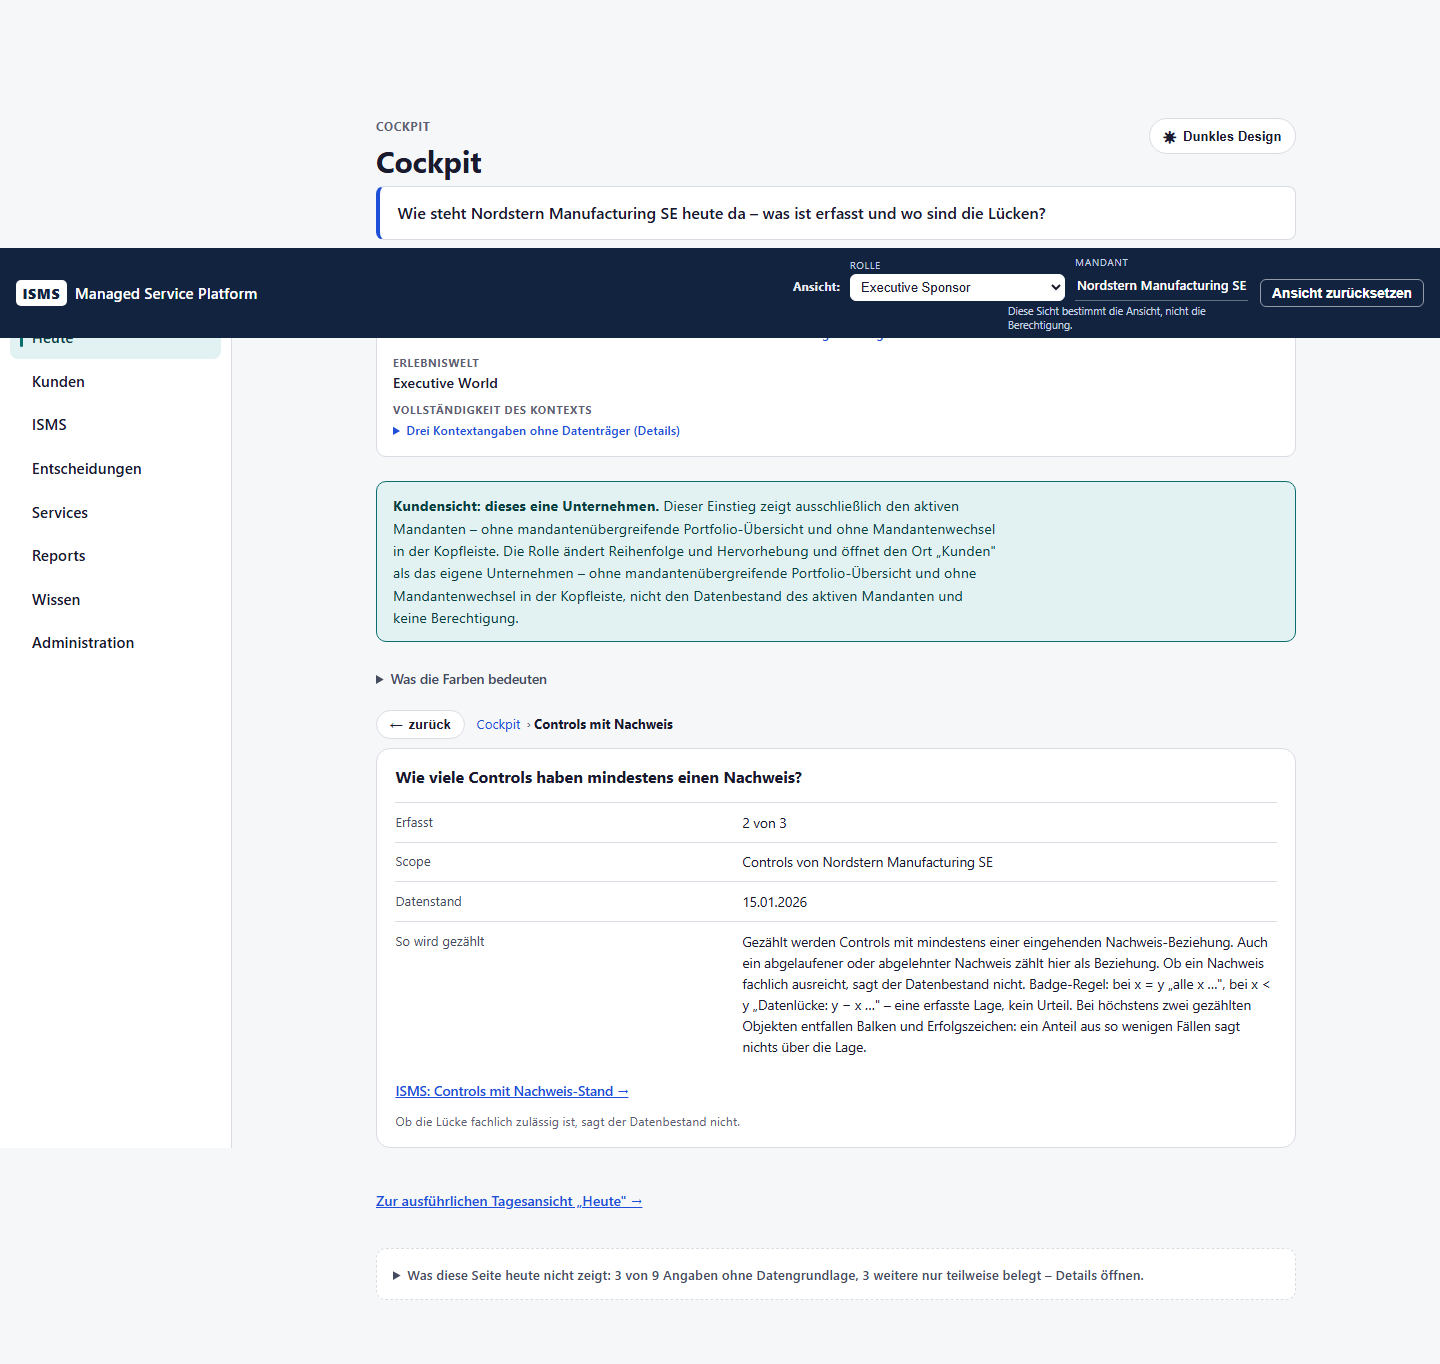
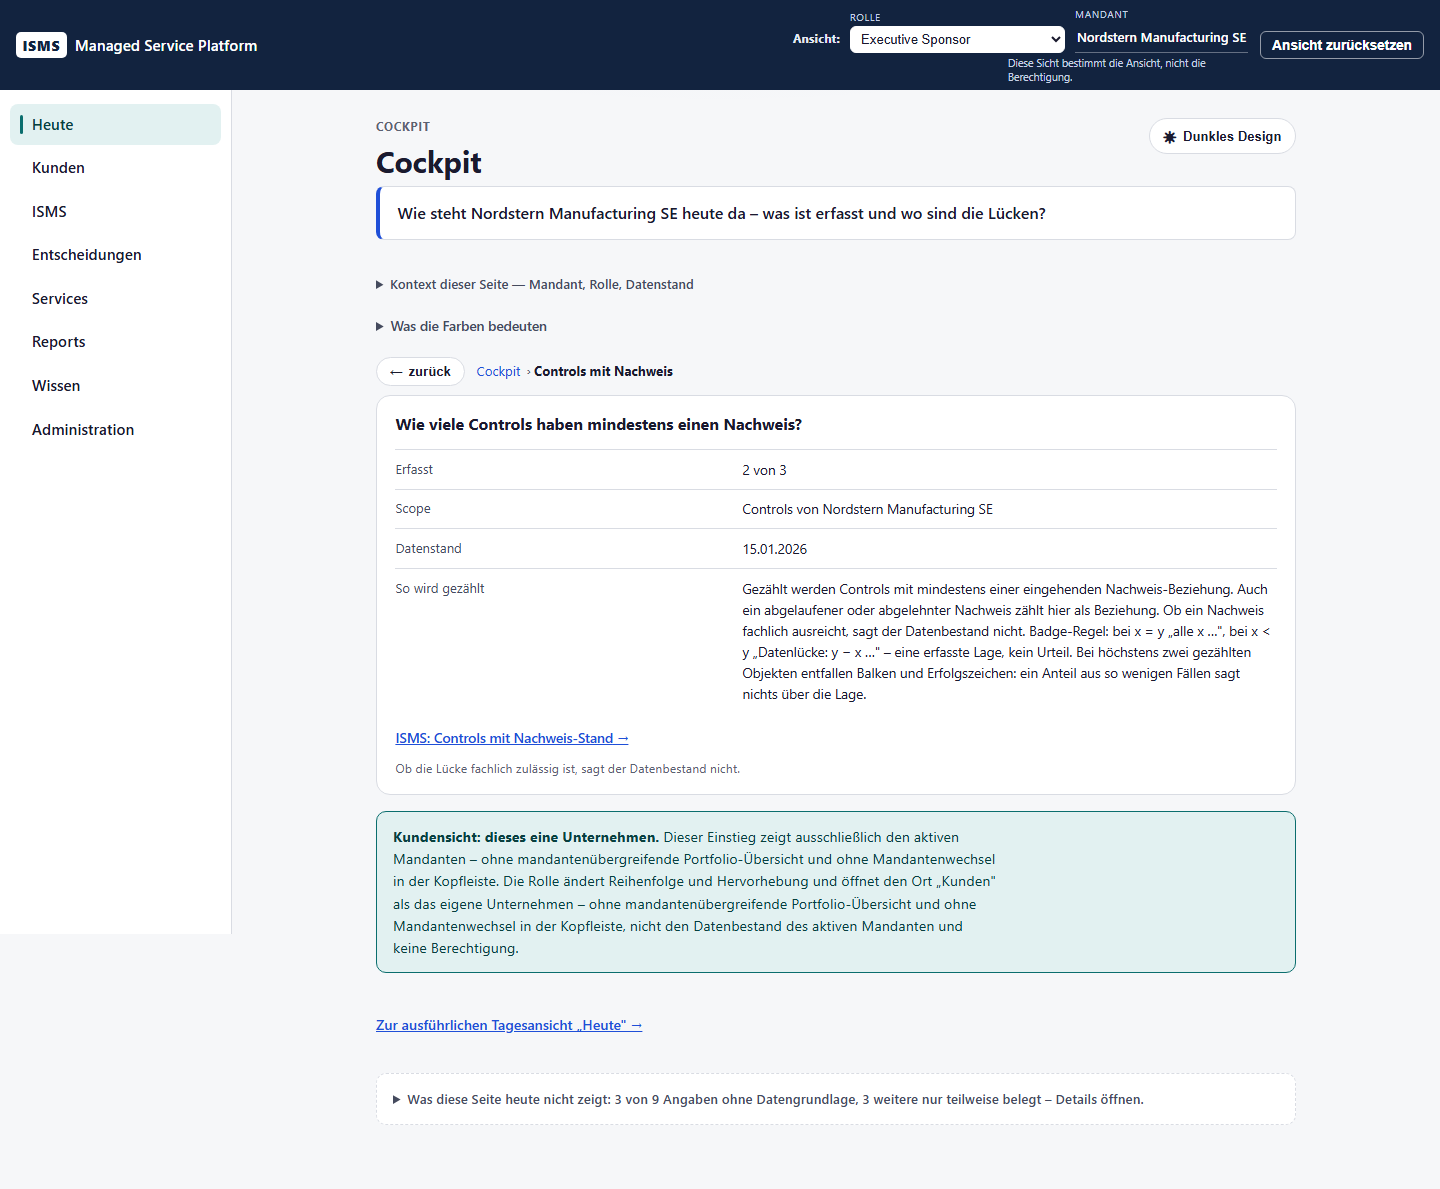
feat(web): DR-0017 Stage 0 - Cockpit-Vorlage perfektioniert (Dashboard-first)
Owner-Feedback umgesetzt: Ehrlichkeits-Bausteine raeumen den Dashboard-Blick frei - Kontextleiste
eingeklappt (<details>), Sphaeren-Hinweis unter das Grid, Legende eingeklappt -> das Bento-Dashboard
steht sofort oben (wie im freigegebenen Entwurf). Radar-Umbruch gefixt (kurze Achsen-Labels). Guards
bleiben (Bausteine im DOM). 835 Tests + axe 0. Neue Nordrichtung DR-0017 im Vision-Doc verankert.

diff --git a/apps/web/lib/cockpit/radar.ts b/apps/web/lib/cockpit/radar.ts
@@ -35,10 +35,20 @@ export const RADAR_LABEL: Readonly<Record<CoverageTile['id'], string>> = {
   kanten_vertrauensgrad: 'Beziehungen mit Vertrauensangabe',
 };
 
+/** Kurzlabel für die enge Radar-Werteliste (verhindert den Umbruch in der schmalen Kachel). */
+export const RADAR_KURZ: Readonly<Record<CoverageTile['id'], string>> = {
+  controls_nachweis: 'Controls',
+  risiken_minderung: 'Risiken',
+  objekte_owner: 'Objekte m. Owner',
+  kanten_vertrauensgrad: 'Vertrauensangabe',
+};
+
 /** Eine Radar-Achse = eine erfasste Abdeckung, mit ehrlichem Anteil und Ampel-Status. */
 export interface CockpitRadarAxis {
   readonly id: CoverageTile['id'];
   readonly label: string;
+  /** Kurzlabel für die enge Radar-Werteliste. */
+  readonly kurz: string;
   readonly covered: number;
   readonly total: number;
   /** Anteil 0…1 (Geometrie der Achse); 0 bei fehlender Grundgesamtheit – nie ein Score im Text. */
@@ -75,6 +85,7 @@ export function buildCockpitRadar(
     return {
       id: tile.id,
       label: RADAR_LABEL[tile.id],
+      kurz: RADAR_KURZ[tile.id],
       covered: tile.covered,
       total: tile.total,
       anteil,

diff --git a/apps/web/components/cockpit/CockpitModulContent.tsx b/apps/web/components/cockpit/CockpitModulContent.tsx
@@ -89,8 +89,10 @@ export function CockpitModulContent({
 
       {model && baum ? (
         <>
-          <CockpitContextBar model={model} role={role} tenant={tenant} world={world} />
-          <SphaerenNotiz role={role} />
+          <details className="ck-fold">
+            <summary>Kontext dieser Seite — Mandant, Rolle, Datenstand</summary>
+            <CockpitContextBar model={model} role={role} tenant={tenant} world={world} />
+          </details>
 
           {baum.isEmpty && baum.emptyTile ? (
             <EmptyTenantKachel tile={baum.emptyTile} />
@@ -104,6 +106,7 @@ export function CockpitModulContent({
             </>
           )}
 
+          <SphaerenNotiz role={role} />
           <p className="ck-heute-link">
             <Link className="tw-cta" href="/heute">
               Zur ausführlichen Tagesansicht „Heute" →

diff --git a/apps/web/app/globals.css b/apps/web/app/globals.css
@@ -2291,6 +2291,21 @@ summary {
  * aus den --ck-*-Tokens (Dunkelmodus zieht automatisch mit). Flach; Eintauch-
  * Animation respektiert prefers-reduced-motion.
  * ========================================================================= */
+.ck-fold {
+  margin: 0.25rem 0 0.6rem;
+}
+.ck-fold > summary,
+.ck-legende-fold > summary {
+  cursor: pointer;
+  font-size: 0.82rem;
+  font-weight: 600;
+  color: var(--ck-ink-soft);
+  padding: 0.35rem 0;
+  list-style-position: inside;
+}
+.ck-fold[open] > summary {
+  margin-bottom: 0.5rem;
+}
 .ck-legende-fold {
   margin: 0.25rem 0 1rem;
 }

diff --git a/apps/web/components/cockpit/CockpitRadar.tsx b/apps/web/components/cockpit/CockpitRadar.tsx
@@ -77,7 +77,7 @@ export function CockpitRadar({ radar }: { radar: CockpitRadarModel }) {
         {axes.map((axis) => (
           <li key={axis.id} className={`ck-status--${axis.status}`}>
             <span className="ck-radar-punktmarke" aria-hidden="true" />
-            <span className="ck-radar-wert-label">{axis.label}</span>
+            <span className="ck-radar-wert-label">{axis.kurz}</span>
             <span className="ck-radar-wert-zahl">
               {axis.isEmpty ? 'keine Grundgesamtheit' : `${axis.covered} von ${axis.total}`}
             </span>

diff --git a/docs/project/OWNER_VISION_UND_BACKLOG.md b/docs/project/OWNER_VISION_UND_BACKLOG.md
@@ -11,6 +11,17 @@ Stand: **2026-07-24**. Aktueller Baustand & Testlage: `docs/project/CURRENT_STAT
 
 ---
 
+## 0. NEUE NORDRICHTUNG (2026-07-24, DR-0017) — HIER ZUERST
+
+**Das ganze Produkt wird ein durchgehendes Eintauch-Dashboard** ([DR-0017](../decisions/DR-0017_drilldown_dashboard_ia_ganzes_produkt.md)):
+Einstieg = **Berater-Portfolio-Dashboard** (alle Kunden) → tiefer in einen **Kunden** → dessen Dashboard zeigt
+die acht Bereiche (Heute/Kunden/ISMS/Entscheidungen/Services/Reports/Wissen/Administration) als **grafische
+Kacheln** → tiefer und tiefer bis in den **digitalen Zwilling**. **Kein Sidebar-Reiter mehr** — Navigation nur
+über Eintauchen (Brotkrume). Alles im **Cockpit-Dashboard-Stil** (das modulare Cockpit ist die Vorlage).
+**Der ehrliche Kern bleibt** (Daten, Ableitungen, Zwilling, Konzepttreue, Tests) — nur Präsentation + IA neu.
+Umsetzung staged (Stage 0 Cockpit-Vorlage ✅ → 1 Berater-Einstieg → 2 Kunde-Dashboard → 3 Bereiche → 4 Sidebar
+raus). Details + Konzept-Tension (06-D01) in DR-0017.
+
 ## 1. Vision & Zielpublikum
 
 Ein **digitaler Unternehmenszwilling für kontinuierliches Informationssicherheits-Management** + skalierbare
